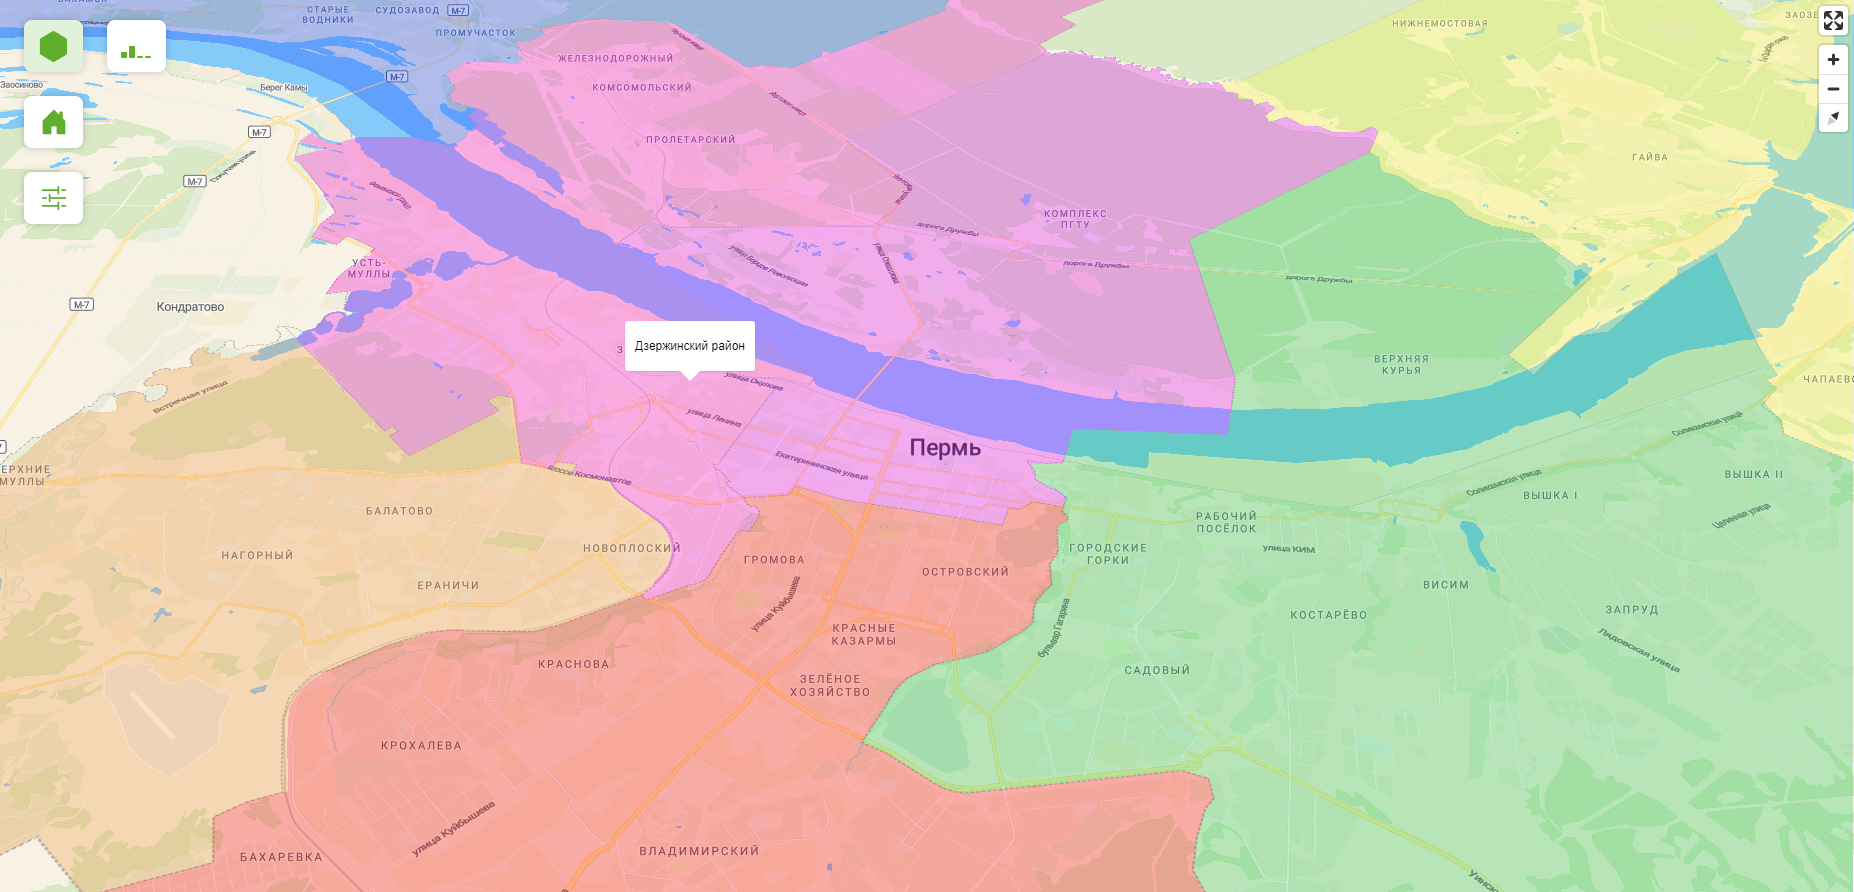
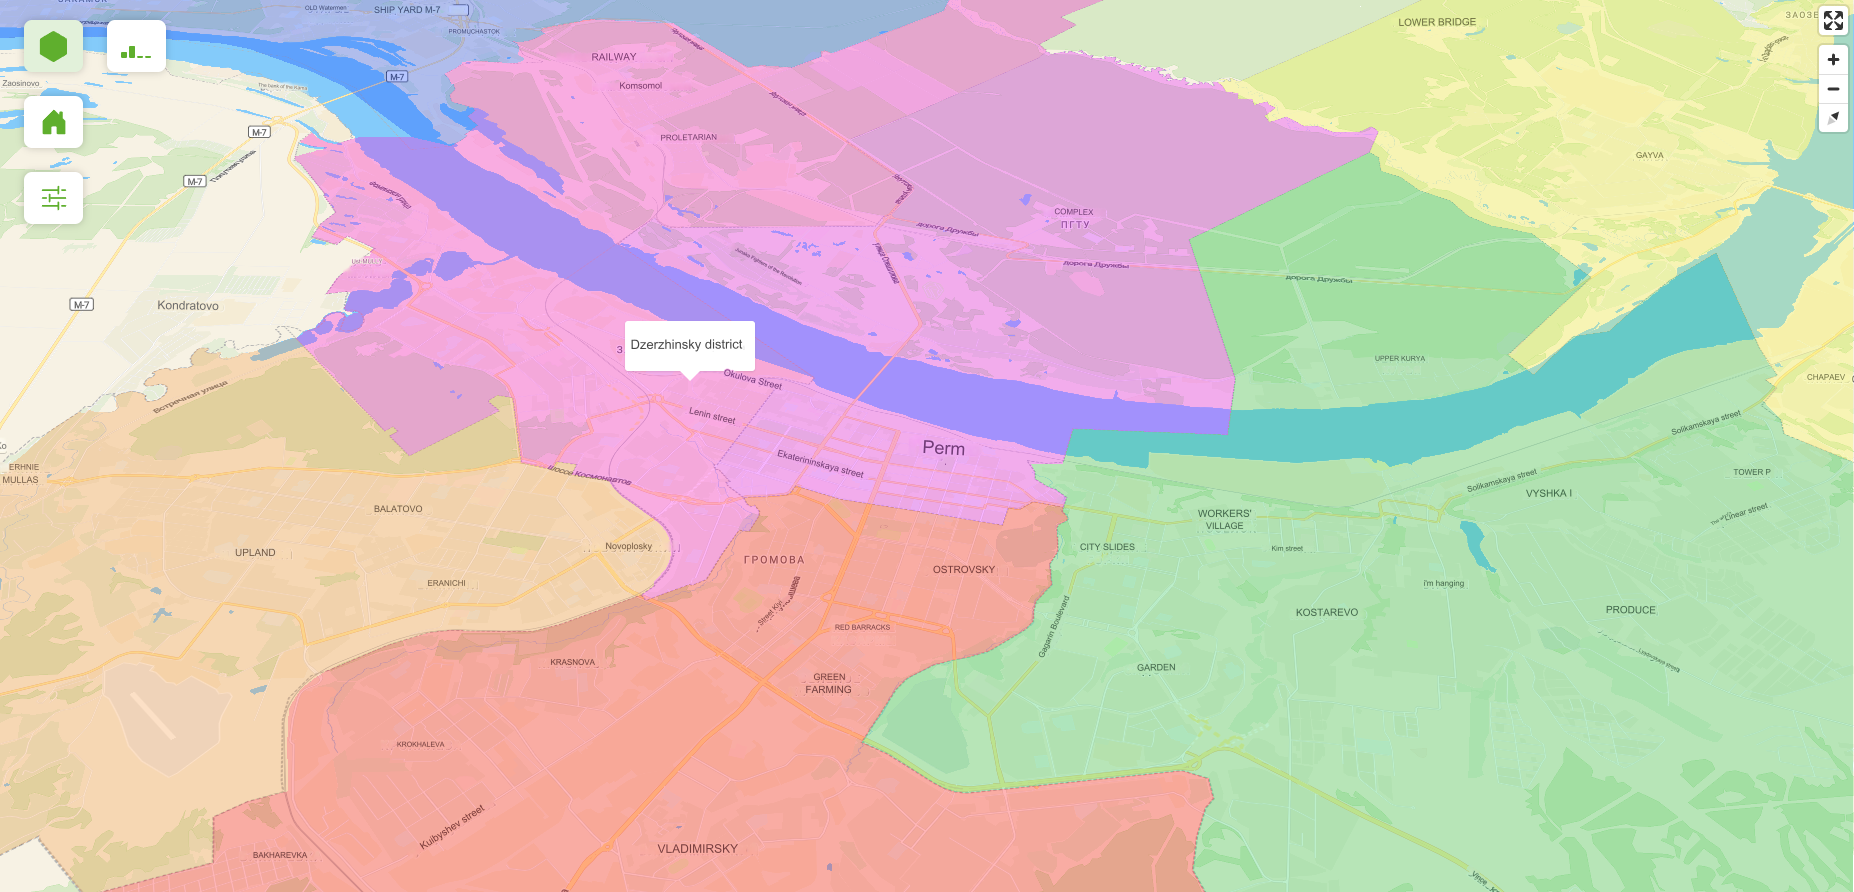
Naming changes

diff --git a/readme.md b/readme.md
@@ -1,16 +1,17 @@
-# ML-проект по прогнозу цены на недвижимость
+# ML Project for Real Estate Price Prediction
 
-## Архитектура системы
+## System Architecture
 
-![Архитектура системы](https://github.com/Daniil-Solo/MLOps-House-Price-Prediction/blob/master/visual/architecture-1.png)
+![System Architecture](https://github.com/gal-globerman/House-Value-Assessment-System-Dashboard/blob/master/visual/architecture-1.png)
 
-## Исследование
 
-- Данные версионируются с помощью DVC
-- Для каждого этапа обработки данных создан CLI-скрипт
-- Эксперименты логируются с помощью MLflow
+## Research
+- Data is versioned using DVC
+- A CLI script is created for each data processing stage
+- Experiments are logged using MLflow
 
-Даг обработки данных
+
+Data Processing DAG
 ```mermaid
 flowchart TD                       
         node1["add_coordinates"]   
@@ -25,33 +26,32 @@ flowchart TD
         node4-->node2
 ```
 
-![Бакеты в S3-хранилище](https://github.com/Daniil-Solo/MLOps-House-Price-Prediction/blob/master/visual/minio-1.png)
-![Эксперименты](https://github.com/Daniil-Solo/MLOps-House-Price-Prediction/blob/master/visual/mlflow-1.png)
-![Артефакты модели](https://github.com/Daniil-Solo/MLOps-House-Price-Prediction/blob/master/visual/mlflow-3.png)
+![Buckets in S3 storage](https://github.com/gal-globerman/House-Value-Assessment-System-Dashboard/blob/master/visual/minio-1.png)
+![Experiments](https://github.com/gal-globerman/House-Value-Assessment-System-Dashboard/blob/master/visual/mlflow-1.png)
+![Model Artifacts](https://github.com/gal-globerman/House-Value-Assessment-System-Dashboard/blob/master/visual/mlflow-3.png)
 
-## Инфраструктура
-
-- Minio (бакеты для DVC и MLflow)
+## Infrastructure
+- Minio (buckets for DVC and MLflow)
 - MLflow, PostgreSQL, PgAdmin
 - Prometheus, Loki, Grafana
 
-![Мониторинг в Grafana](https://github.com/Daniil-Solo/MLOps-House-Price-Prediction/blob/master/visual/grafana-1.png)
+![Monitoring in Grafana](https://github.com/gal-globerman/House-Value-Assessment-System-Dashboard/blob/master/visual/grafana-1.png)
 
-## Бэкенд, сервинг модели
 
+## Backend, Model Serving
 - FastAPI, Catboost
-- Загружает актуальную модель из Model Registry
-- Отправляет логи в Loki
-- Отдает метрики для Prometheus
+- Loads the current model from Model Registry
+- Sends logs to Loki
+- Provides metrics for Prometheus
 
-![Swagger документация](https://github.com/Daniil-Solo/MLOps-House-Price-Prediction/blob/master/visual/swagger-1.png)
+![Swagger Documentation](https://github.com/gal-globerman/House-Value-Assessment-System-Dashboard/blob/master/visual/swagger-1.png)
 
-## Фронтенд
 
+## Frontend
 - Vite, React, Maplibre, MUI
-- Предоставляет пользователю интерфейс в виде карты
-- Аналитика распределения квартир
-- Прогноз стоимости на основе характеристик дома и квартиры
+- Provides users with a map interface
+- Apartment distribution analytics
+- Price prediction based on house and apartment characteristics
 
-![Аналитика конкурентов](https://github.com/Daniil-Solo/MLOps-House-Price-Prediction/blob/master/visual/application-3.png)
-![Прогноз по характеристикам](https://github.com/Daniil-Solo/MLOps-House-Price-Prediction/blob/master/visual/application-5.png)
+![Analysis](https://github.com/gal-globerman/House-Value-Assessment-System-Dashboard/blob/master/visual/application-3.png)
+![Forecast by Characteristics](https://github.com/gal-globerman/House-Value-Assessment-System-Dashboard/blob/master/visual/application-5.png)

diff --git a/frontend/README.md b/frontend/README.md
@@ -1,10 +1,10 @@
-# Frontend для сервиса прогнозироования цены на недвижимость в Перми
+# Frontend for Real Estate Price Prediction Service in Perm
 
-## Использование внешнего API
+## Using External APIs
 
 ### Overpass Turbo API
 
-Для получения границ районов Перми используется следующий запрос:
+To obtain the boundaries of districts in Perm, the following query is used:
 ```overpass-turbo
 [out:json][timeout:25];
 relation["boundary"="administrative"]["admin_level" = "9"]["type" = "boundary"]({{bbox}});
@@ -13,16 +13,16 @@ out geom;
 
 ### Maptiler
 
-Для использования подложки для карты используется сервис Maptiler, в котором можно получить токен и настроить под себя карту
+For using a map background, the Maptiler service is utilized, where you can obtain a token and customize your map.
 
-Токен нужно указать в переменных окружения:
+The token needs to be specified in the environment variables:
 ```env
 VITE_BASE_MAP_URL=https://api.maptiler.com/maps/<maps-id>/style.json?key=<key>
 ```
 
-## Запуск
+## Startup
 
-### Переменные окружения для разработки
+### Environment Variables for Development
 
 ```env
 VITE_BASE_MAP_URL=<YOUR-MAP-WITH-TOKEN>
@@ -30,7 +30,7 @@ VITE_MODE=dev
 VITE_API_HOST=http://127.0.0.1:8000
 ```
 
-### Переменные окружения для сборки
+Environment Variables for Production Build
 
 ```env
 VITE_BASE_MAP_URL=<YOUR-MAP-WITH-TOKEN>

diff --git a/backend/readme.md b/backend/readme.md
@@ -1,16 +1,15 @@
-# Сервис для сервинга модели
+# Model Serving Service
 
-## Описание
-Сервис позволяет прогнозировать цену квартиры в пределах г. Перми.
+## Description
+This service allows for predicting apartment prices within the city of Perm.
 
-При старте приложения актуальная модель подгружается из MLflow Model Registry
+When the application starts, the current model is loaded from the MLflow Model Registry.
 
-Есть два эндопинта для прогноза: с адресом и с координатами дома. 
-Если используется первый эндпоинт, то требует токена для использования сервиса Geoapify.
+There are two endpoints for predictions: one using an address and the other using the house's coordinates. If the first endpoint is used, a token for the Geoapify service is required.
 
-## Запуск
+## Startup
 
-### Требуемые переменные окружения
+### Required Environment Variables
 ```env
 GEOAPIFY_TOKEN=<GEOAPIFY_TOKEN>
 MLFLOW_TRACKING_URI=<TRACKING_URI>
@@ -23,9 +22,8 @@ DISTRICTS_GEOJSON_PATH=src/static/perm_district.json
 AMENITY_DIR_PATH=src/static/amenity
 LOGGING_URL=http://localhost:3100/loki/api/v1/push
 ```
-### Развертывание с помощью docker compose
+### Deployment Using Docker Compose
 ```bash
 docker-compose up -d
 ```
-Для локальной разработки использовать docker-compose.local.yaml
-
+For local development, use docker-compose.local.yaml.

diff --git a/infrastructure/readme.md b/infrastructure/readme.md
@@ -1,12 +1,12 @@
-# Инфраструктурный репозиторий
+# Infrastructure Repository
 
-## Назначение
-Содержит код для запуска внешних сервисов
+## Purpose
+Contains code to run external services.
 
-## Сервисы
+## Services
 
-### 1. Minio (S3-like хранлище)
-**Требуемые переменные окружения**
+### 1. Minio (S3-like storage)
+**Required Environment Variables**
 ```env
 MINIO_ROOT_USER=<user>
 MINIO_ROOT_PASSWORD=<password>
@@ -16,19 +16,19 @@ S3_API_PORT=<api port>
 S3_WEB_UI_PORT=<web ui port>
 ```
 
-**Запуск**
+**Startup**
 ```bash
 docker-compose --env-file .env -f minio/docker-compose.yml up -d
 ```
 
-Для корректной работы DVC и MLFlow нужно создать через веб интерфейс minio соответствующие бакеты:
+To ensure proper operation of DVC and MLFlow, you need to create the corresponding buckets through the Minio web interface:
 ```env
 DVC_BUCKET=<ENTER YOUR VALUE>
 MLFLOW_BUCKET=<ENTER YOUR VALUE>
 ```
 
 ### 2. MLflow, PostgreSQL, PgAdmin
-**Требуемые переменные окружения**
+**Required Environment Variables**
 ```env
 SERVER_HOST=<ENTER YOUR VALUE>
 SERVER_SCHEMA=<ENTER YOUR VALUE>
@@ -43,13 +43,13 @@ PGADMIN_EMAIL=<ENTER YOUR VALUE>
 PGADMIN_PASSWORD=<ENTER YOUR VALUE>
 ```
 
-**Запуск**
+**Startup**
 ```bash
 docker-compose --env-file .env -f mlflow/docker-compose.yml up -d
 ```
 
 ### 3. Prometheus, Grafana, Loki
-**Запуск**
+**Startup**
 ```bash
 docker-compose -f monitoring/docker-compose.yml up -d
 ```

diff --git a/research/README.md b/research/README.md
@@ -1,6 +1,6 @@
 # ML-project
 
-## Организация проекта
+## Project Organization
 ```
 
     ├── README.md                <- The top-level README for developers using this project.
@@ -38,9 +38,9 @@
     └── poetry.lock              <- locks for libraries
 ```
 
-Проект базируется на шаблоне [cookiecutter-data-science](https://drivendata.github.io/cookiecutter-data-science/)
-со следующими изменениями:
-- requirements.txt заменен на poetry
-- удалены setup.py, test_environment.py, tox.ini
-- переработан Makefile
-- переход от Sphinx к Quarto документации
+The project is based on the [cookiecutter-data-science](https://drivendata.github.io/cookiecutter-data-science/) template with the following changes:
+
+- requirements.txt replaced with Poetry
+- setup.py, test_environment.py, and tox.ini removed
+- Makefile redesigned
+- Transition from Sphinx to Quarto documentation
